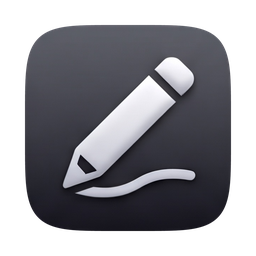
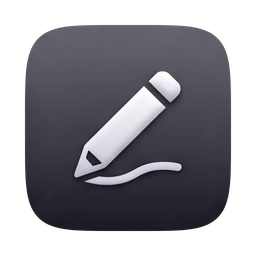
kit 0.1.45: 업데이트 · 정보 창 아이콘을 appIconDark 로 넘기고, 앱 안 아이콘을 공용 824 판에서 다시 만듦

Changed region(s): [[0.2188, 0.2188, 0.7812, 0.7812]]

diff --git a/src/runners-account/runners-about.tsx b/src/runners-account/runners-about.tsx
@@ -15,6 +15,8 @@ export type RunnersAboutProps = {
   /** 창에 보일 이름. 예: Monitor */
   appName: string
   appIcon: string
+  /** 어두운 화면에서 쓸 블랙 판. 주면 화면 밝기를 따라 바뀐다(2026-11-11 결정: Dock 은 화이트 판, 앱 안은 밝기를 따라감). */
+  appIconDark?: string
   website: string
   github: string
   locale: string
@@ -34,7 +36,18 @@ export type RunnersAboutProps = {
 }
 
 export function RunnersAbout(props: RunnersAboutProps) {
-  const { appId, appName, appIcon, website, github, locale, t, openExternal, closeWindow } = props
+  const {
+    appId,
+    appName,
+    appIcon,
+    appIconDark,
+    website,
+    github,
+    locale,
+    t,
+    openExternal,
+    closeWindow
+  } = props
   const { version: readVersion, fitHeight, loadNotices, startWithNotices, embedded } = props
   const [version, setVersion] = useState('')
   const [notices, setNotices] = useState<string | null>(null)
@@ -79,7 +92,10 @@ export function RunnersAbout(props: RunnersAboutProps) {
   return (
     <main className={embedded ? 'about about-embedded' : 'about'} ref={root}>
       <header className="about-header">
-        <img className="about-icon" src={appIcon} alt="" draggable={false} />
+        <picture className="rw-picture">
+          {appIconDark && <source srcSet={appIconDark} media="(prefers-color-scheme: dark)" />}
+          <img className="about-icon" src={appIcon} alt="" draggable={false} />
+        </picture>
         <h1 className="about-name">{appName}</h1>
         <p className="about-line">{version ? t('about.line', { version }) : ' '}</p>
         <div className="about-links">

diff --git a/src/runners-account/runners-update.tsx b/src/runners-account/runners-update.tsx
@@ -15,6 +15,8 @@ export type RunnersUpdateOffer = {
 
 export type RunnersUpdateProps = {
   appIcon: string
+  /** 어두운 화면에서 쓸 블랙 판. 주면 화면 밝기를 따라 바뀐다(2026-11-11 결정: Dock 은 화이트 판, 앱 안은 밝기를 따라감). */
+  appIconDark?: string
   t: (key: string, args?: Record<string, string | number>) => string
   /** 창이 뜰 때 메인 프로세스에 있는 지금 상태. */
   offer: () => Promise<RunnersUpdateOffer | null>
@@ -24,7 +26,7 @@ export type RunnersUpdateProps = {
 }
 
 export function RunnersUpdate(props: RunnersUpdateProps) {
-  const { appIcon, t, offer: readOffer, onOffer, answer, fitHeight } = props
+  const { appIcon, appIconDark, t, offer: readOffer, onOffer, answer, fitHeight } = props
   const [offer, setOffer] = useState<RunnersUpdateOffer | null>(null)
   const [installing, setInstalling] = useState(false)
   const root = useRef<HTMLElement>(null)
@@ -108,7 +110,10 @@ export function RunnersUpdate(props: RunnersUpdateProps) {
   const percent = Math.max(0, Math.min(100, Math.floor(offer?.percent ?? 0)))
   return (
     <main className="update" ref={root}>
-      <img className="update-icon" src={appIcon} alt="" draggable={false} />
+      <picture className="rw-picture">
+        {appIconDark && <source srcSet={appIconDark} media="(prefers-color-scheme: dark)" />}
+        <img className="update-icon" src={appIcon} alt="" draggable={false} />
+      </picture>
       <h1 className="update-title">{t('update.title')}</h1>
       <p className="update-ask">{offer ? t('update.ask', { version: offer.version }) : ' '}</p>
       {notes && (

diff --git a/src/renderer/appIcon.ts b/src/renderer/appIcon.ts
@@ -2,6 +2,9 @@ import { useSyncExternalStore } from 'react'
 
 // 앱 안 아이콘은 맥 화면 밝기를 따라간다(2026-11-11 사용자 답 2B): 밝은 모드는 화이트 판, 어두운 모드는 블랙 판.
 // Dock · Finder 처럼 시스템이 그리는 자리는 화이트 판 하나로 둔다(같은 날 답 1A).
+export const APP_ICON = '../assets/icon.png'
+export const APP_ICON_DARK = '../assets/icon-black.png'
+
 const dark = window.matchMedia('(prefers-color-scheme: dark)')
 
 const subscribe = (onChange: () => void) => {
@@ -10,6 +13,4 @@ const subscribe = (onChange: () => void) => {
 }
 
 export const useAppIcon = () =>
-  useSyncExternalStore(subscribe, () =>
-    dark.matches ? '../assets/icon-black.png' : '../assets/icon.png'
-  )
+  useSyncExternalStore(subscribe, () => (dark.matches ? APP_ICON_DARK : APP_ICON))

diff --git a/src/renderer/settings_page/components/AboutTab.tsx b/src/renderer/settings_page/components/AboutTab.tsx
@@ -1,7 +1,7 @@
 // 설정 › 정보 탭(2026-11-08 창 통일): 따로 뜨던 정보 창 대신 kit 의 RunnersAbout 을 탭 안에 그대로 넣는다.
 import { RunnersAbout } from '../../../runners-account/runners-about'
 import { currentLocale, t } from '../../../shared/i18n'
-import { useAppIcon } from '../../appIcon'
+import { APP_ICON, APP_ICON_DARK } from '../../appIcon'
 
 // THIRD_PARTY_NOTICES.md 는 누를 때만 읽어 설정 창을 여는 시간을 늘리지 않는다.
 const loadNotices = () =>
@@ -13,7 +13,8 @@ const AboutTab = () => (
   <RunnersAbout
     appId="draw"
     appName="Draw"
-    appIcon={useAppIcon()}
+    appIcon={APP_ICON}
+    appIconDark={APP_ICON_DARK}
     website="https://runners.im/draw"
     github="https://github.com/RUNNERS-IM/draw"
     locale={currentLocale()}

diff --git a/src/renderer/update_page/index.tsx b/src/renderer/update_page/index.tsx
@@ -2,7 +2,7 @@ import '../errorReport'
 import { createRoot } from 'react-dom/client'
 import { RunnersUpdate } from '../../runners-account/runners-update'
 import { t } from '../../shared/i18n'
-import { useAppIcon } from '../appIcon'
+import { APP_ICON, APP_ICON_DARK } from '../appIcon'
 import { applyTextDirection } from '../i18n'
 
 applyTextDirection()
@@ -11,7 +11,8 @@ const { answerUpdate, fitHeight, onUpdateOffer, updateOffer } = window.electronA
 
 const Update = () => (
   <RunnersUpdate
-    appIcon={useAppIcon()}
+    appIcon={APP_ICON}
+    appIconDark={APP_ICON_DARK}
     t={t}
     offer={updateOffer}
     onOffer={onUpdateOffer}

diff --git a/src/runners-account/runners-window.css b/src/runners-account/runners-window.css
@@ -182,3 +182,8 @@ body {
   outline-offset: 0;
   border-color: var(--r-accent);
 }
+
+/* 앱 아이콘을 밝기에 따라 바꾸는 <picture>. 감싼 상자가 없는 것처럼 두어 img 의 크기 · 여백 규칙이 그대로 먹게 한다. */
+.rw-picture {
+  display: contents;
+}

diff --git a/RELEASE_NOTES.md b/RELEASE_NOTES.md
@@ -1,9 +1,7 @@
 ## 한국어
 
-- 설정의 계정 칸에 로그인하지 않았을 때 판다 그림과 로그인 단추를 크게 보여, 로그인하지 않아도 그대로 그릴 수 있다는 것을 한눈에 알 수 있게 했습니다.
-- 업데이트 창 · 정보 탭의 한국어 글이 낱말 중간에서 줄이 바뀌지 않게 했습니다.
+- 업데이트 창 · 정보 탭 · 알림의 앱 아이콘을 다른 RUNNERS 앱과 같은 크기 · 색의 판으로 맞췄습니다. 어두운 화면에서는 어두운 판이 나옵니다.
 
 ## English
 
-- When you are not signed in, the Account tab in Settings now shows a panda and a clear Sign In button, so it is easy to see that you can keep drawing without an account.
-- Korean text in the update window and the About tab no longer breaks lines in the middle of a word.
+- The app icon in the update window, the About tab and notifications now uses the same plate size and colors as the other RUNNERS apps, with a dark plate in Dark Mode.
